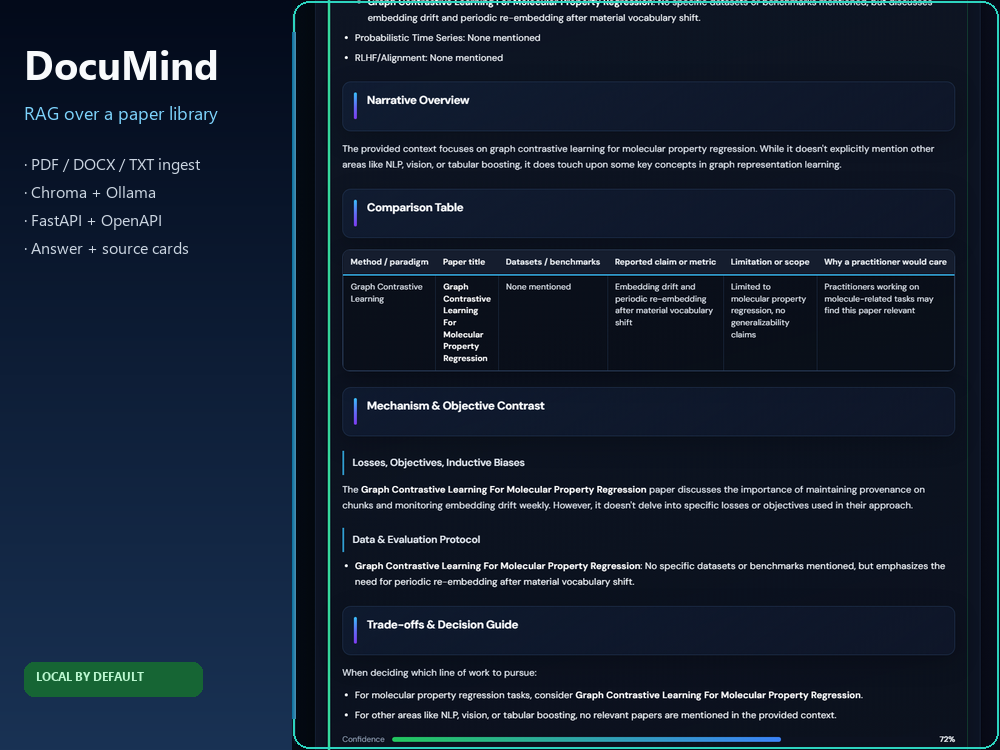
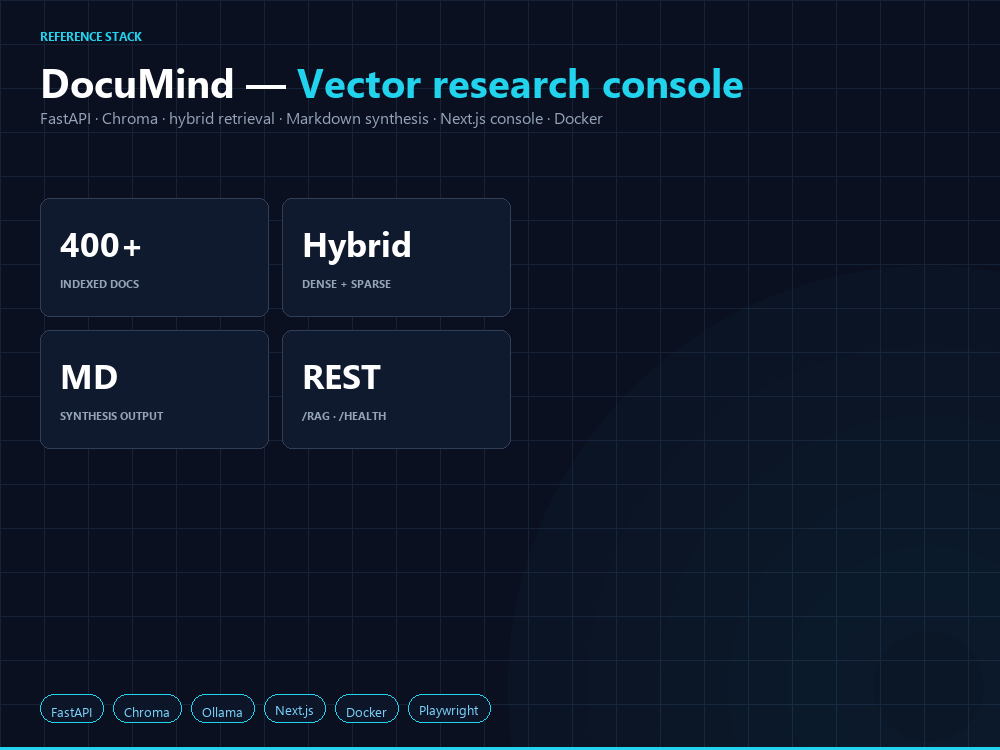
Update README and scripts for enhanced dashboard screenshot generation. Modify Playwright script to support customizable viewport widths and improve catalog thumbnail generation. Revise portfolio HTML for clarity and update image references to reflect new dimensions. Adjust thumbnail design to align

diff --git a/portfolio/DocuMind_Upwork_Catalog.html b/portfolio/DocuMind_Upwork_Catalog.html
@@ -178,10 +178,10 @@
     </div>
 
     <figure class="figure-dashboard">
-      <a href="screenshots/documind-dashboard.png" title="Open full-resolution capture (1440×3200)">
-        <img src="screenshots/documind-upwork-catalog-1000x750.png" width="1000" height="750" alt="DocuMind dashboard after a live query — optimized 4:3 for Upwork Project Catalog thumbnails" loading="lazy" decoding="async" />
+      <a href="screenshots/documind-dashboard.png" title="Open full dashboard capture (Playwright; default 1680×3200)">
+        <img src="screenshots/documind-upwork-catalog-1000x750.png" width="1000" height="750" alt="DocuMind — portfolio tile: poster left, live dashboard right (1000×750)" loading="lazy" decoding="async" />
       </a>
-      <figcaption><strong>Figure 1.</strong> <strong>1000×750</strong> (4:3): left column lists the stack; right column is a cropped live query from the Next UI. Full frame: <code>screenshots/documind-dashboard.png</code>. Regenerate: <code>scripts/capture_dashboard_playwright.py</code> or <code>python scripts/catalog_thumb_art.py --src … --out …</code>.</figcaption>
+      <figcaption><strong>Figure 1.</strong> <strong>1000×750</strong> — narrow left spine (stack) + ~82% width <strong>zoomed</strong> UI band (short vertical crop from the capture so body text stays readable). Re-upload after regenerating. Full: <code>screenshots/documind-dashboard.png</code> (prefer 1680px-wide capture).</figcaption>
     </figure>
 
     <h2>One-line pitch</h2>

diff --git a/scripts/catalog_thumb_art.py b/scripts/catalog_thumb_art.py
@@ -1,7 +1,7 @@
 """
-1000×750 (4:3) catalog image: short stack summary + cropped live UI from dashboard PNG.
+1000×750 Upwork tile — Sentinel-style infographic (no scaled screenshots).
 
-Upwork suggests ~1000×750 for Project Catalog tiles; this keeps text factual and the UI legible.
+Dark navy grid, cyan corner glow, bold title + stack line, 2×2 metric cards, bottom tech pills.
 """
 from __future__ import annotations
 
@@ -11,118 +11,148 @@ from pathlib import Path
 from PIL import Image, ImageDraw, ImageFont
 
 
+W, H = 1000, 750
+BG = (10, 16, 32)
+GRID = (22, 34, 56)
+ACCENT = (34, 211, 238)
+ACCENT_SOFT = (125, 211, 252)
+CARD_BG = (16, 26, 46)
+CARD_EDGE = (48, 62, 88)
+LABEL_GRAY = (148, 163, 184)
+WHITE = (255, 255, 255)
+
+
 def _windows_font(name: str) -> Path | None:
     windir = os.environ.get("WINDIR", "C:/Windows")
     p = Path(windir) / "Fonts" / name
     return p if p.is_file() else None
 
 
-def _load_fonts() -> tuple[ImageFont.FreeTypeFont | ImageFont.ImageFont, ...]:
-    title_p = _windows_font("segoeuib.ttf") or _windows_font("arialbd.ttf")
-    body_p = _windows_font("segoeui.ttf") or _windows_font("arial.ttf")
+def _sentinel_fonts() -> dict[str, ImageFont.FreeTypeFont | ImageFont.ImageFont]:
+    bold = _windows_font("segoeuib.ttf") or _windows_font("arialbd.ttf")
+    reg = _windows_font("segoeui.ttf") or _windows_font("arial.ttf")
     try:
-        if title_p and body_p:
-            return (
-                ImageFont.truetype(str(title_p), 40),
-                ImageFont.truetype(str(body_p), 18),
-                ImageFont.truetype(str(body_p), 16),
-                ImageFont.truetype(str(title_p), 12),
-            )
+        if bold and reg:
+            return {
+                "kicker": ImageFont.truetype(str(bold), 12),
+                "title": ImageFont.truetype(str(bold), 40),
+                "stack_line": ImageFont.truetype(str(reg), 16),
+                "metric_val": ImageFont.truetype(str(bold), 34),
+                "metric_lbl": ImageFont.truetype(str(bold), 11),
+                "pill": ImageFont.truetype(str(reg), 13),
+            }
     except OSError:
         pass
     d = ImageFont.load_default()
-    return (d, d, d, d)
+    return {k: d for k in ("kicker", "title", "stack_line", "metric_val", "metric_lbl", "pill")}
 
 
-def _rounded_mask(size: tuple[int, int], radius: int) -> Image.Image:
-    w, h = size
-    mask = Image.new("L", (w, h), 0)
-    dr = ImageDraw.Draw(mask)
-    dr.rounded_rectangle((0, 0, w, h), radius=radius, fill=255)
-    return mask
+def _draw_subtle_grid(draw: ImageDraw.ImageDraw, width: int, height: int, step: int = 44) -> None:
+    for x in range(0, width + 1, step):
+        draw.line((x, 0, x, height), fill=GRID, width=1)
+    for y in range(0, height + 1, step):
+        draw.line((0, y, width, y), fill=GRID, width=1)
 
 
-def render_catalog_thumbnail(master_png: Path, out_png: Path) -> None:
-    """Composite 1000×750 catalog/portfolio thumbnail from master dashboard PNG."""
-    Image.MAX_IMAGE_PIXELS = 200_000_000
+def _composite_corner_glow(base_rgba: Image.Image) -> Image.Image:
+    w, h = base_rgba.size
+    glow = Image.new("RGBA", (w, h), (0, 0, 0, 0))
+    gd = ImageDraw.Draw(glow)
+    cx, cy = w - 72, h - 64
+    for r, a in (
+        (420, 5),
+        (340, 7),
+        (270, 9),
+        (200, 11),
+        (140, 13),
+        (90, 12),
+        (55, 9),
+    ):
+        gd.ellipse((cx - r, cy - r, cx + r, cy + r), fill=(*ACCENT, a))
+    return Image.alpha_composite(base_rgba, glow)
 
-    master = Image.open(master_png).convert("RGB")
-    mw, mh = master.size
-    if mw < 400 or mh < 400:
-        raise ValueError(f"Master too small: {mw}×{mh}")
 
-    W, H = 1000, 750
-    LEFT_W = 292
-    RIGHT_W = W - LEFT_W
-    radius = 16
-    pad = (6, 10, 22)
+def _draw_metric_card(
+    draw: ImageDraw.ImageDraw,
+    x: int,
+    y: int,
+    cw: int,
+    ch: int,
+    value: str,
+    label: str,
+    fonts: dict[str, ImageFont.ImageFont],
+) -> None:
+    draw.rounded_rectangle((x, y, x + cw, y + ch), radius=10, fill=CARD_BG, outline=CARD_EDGE, width=1)
+    draw.text((x + 20, y + 22), value, fill=WHITE, font=fonts["metric_val"])
+    draw.text((x + 20, y + 78), label.upper(), fill=LABEL_GRAY, font=fonts["metric_lbl"])
 
-    canvas = Image.new("RGB", (W, H), pad)
-    draw = ImageDraw.Draw(canvas)
 
-    # Left gradient panel
-    left = Image.new("RGB", (LEFT_W, H))
-    ld = ImageDraw.Draw(left)
-    for y in range(H):
-        t = y / max(H - 1, 1)
-        r = int(3 + t * 22)
-        g = int(10 + t * 40)
-        b = int(26 + t * 58)
-        ld.line([(0, y), (LEFT_W, y)], fill=(r, g, b))
+def _draw_pill_row(
+    draw: ImageDraw.ImageDraw,
+    tags: list[str],
+    font: ImageFont.ImageFont,
+    x0: int,
+    y0: int,
+    gap: int = 10,
+) -> None:
+    x = x0
+    for tag in tags:
+        bbox = draw.textbbox((0, 0), tag, font=font)
+        tw, th = bbox[2] - bbox[0], bbox[3] - bbox[1]
+        pw, ph = tw + 22, max(28, th + 14)
+        draw.rounded_rectangle((x, y0, x + pw, y0 + ph), radius=14, fill=(12, 22, 40), outline=ACCENT, width=1)
+        draw.text((x + 11, y0 + (ph - th) // 2 - 1), tag, fill=ACCENT_SOFT, font=font)
+        x += pw + gap
 
-    ft_title, ft_sub, ft_li, ft_badge = _load_fonts()
-    ld.text((24, 36), "DocuMind", fill=(248, 250, 252), font=ft_title)
-    ld.text((24, 100), "RAG over a paper library", fill=(125, 211, 252), font=ft_sub)
 
-    bullets = [
-        "PDF / DOCX / TXT ingest",
-        "Chroma + Ollama",
-        "FastAPI + OpenAPI",
-        "Answer + source cards",
-    ]
-    yb = 152
-    for i, b in enumerate(bullets):
-        ld.text((24, yb + i * 28), "· " + b, fill=(203, 213, 225), font=ft_li)
+def render_documind_sentinel_tile(out_png: Path) -> None:
+    """Typography-led catalog tile matching SentinelAI reference (readable at grid size)."""
+    fonts = _sentinel_fonts()
+    base = Image.new("RGBA", (W, H), (*BG, 255))
+    draw = ImageDraw.Draw(base)
+    _draw_subtle_grid(draw, W, H)
+    base = _composite_corner_glow(base)
+    draw = ImageDraw.Draw(base)
 
-    pill = (24, H - 88, 24 + 178, H - 54)
-    ld.rounded_rectangle(pill, radius=10, fill=(22, 101, 52))
-    ld.text((36, H - 82), "LOCAL BY DEFAULT", fill=(187, 247, 208), font=ft_badge)
+    margin_l = 40
+    y = 28
+    draw.text((margin_l, y), "REFERENCE STACK", fill=ACCENT, font=fonts["kicker"])
+    y += 26
 
-    canvas.paste(left, (0, 0))
+    t1 = "DocuMind — "
+    t2 = "Vector research console"
+    draw.text((margin_l, y), t1, fill=WHITE, font=fonts["title"])
+    b1 = draw.textbbox((margin_l, y), t1, font=fonts["title"])
+    draw.text((b1[2], y), t2, fill=ACCENT, font=fonts["title"])
 
-    # Right: "cover" zoom on main column — drop narrow sidebar, cap vertical slab so synthesis/UI scale up.
-    x0 = min(int(mw * 0.19), 340)
-    slab_h = min(mh, 2200)
-    slab = master.crop((x0, 0, mw, slab_h))
-    sw_, sh_ = slab.size
-    scale = max(RIGHT_W / sw_, H / sh_)
-    nw, nh = max(1, int(sw_ * scale)), max(1, int(sh_ * scale))
-    big = slab.resize((nw, nh), Image.Resampling.LANCZOS)
-    left_px = max(0, (nw - RIGHT_W) // 2)
-    top_px = max(0, (nh - H) // 2)
-    panel_rgb = big.crop((left_px, top_px, left_px + RIGHT_W, top_px + H))
+    stack = "FastAPI · Chroma · hybrid retrieval · Markdown synthesis · Next.js console · Docker"
+    y += 52
+    draw.text((margin_l, y), stack, fill=LABEL_GRAY, font=fonts["stack_line"])
 
-    bd = ImageDraw.Draw(panel_rgb)
-    bd.rounded_rectangle((1, 1, RIGHT_W - 2, H - 2), radius=radius, outline=(45, 212, 191), width=2)
+    # 2×2 cards (left block)
+    y_cards = 198
+    cw, ch = 228, 118
+    gap = 14
+    _draw_metric_card(draw, margin_l, y_cards, cw, ch, "400+", "indexed docs", fonts)
+    _draw_metric_card(draw, margin_l + cw + gap, y_cards, cw, ch, "Hybrid", "dense + sparse", fonts)
+    _draw_metric_card(draw, margin_l, y_cards + ch + gap, cw, ch, "MD", "synthesis output", fonts)
+    _draw_metric_card(draw, margin_l + cw + gap, y_cards + ch + gap, cw, ch, "REST", "/rag · /health", fonts)
 
-    mask = _rounded_mask((RIGHT_W, H), radius)
-    panel_rgba = panel_rgb.convert("RGBA")
-    panel_rgba.putalpha(mask)
+    pills = ["FastAPI", "Chroma", "Ollama", "Next.js", "Docker", "Playwright"]
+    _draw_pill_row(draw, pills, fonts["pill"], margin_l, H - 56, gap=10)
 
-    canvas_rgba = canvas.convert("RGBA")
-    canvas_rgba.paste(panel_rgba, (LEFT_W, 0), panel_rgba)
-    out = canvas_rgba.convert("RGB")
-
-    fd = ImageDraw.Draw(out)
-    for i in range(4):
-        fd.line([(LEFT_W + i, 32), (LEFT_W + i, H - 32)], fill=(14 + i * 18, 116 + i * 8, 160 + i * 6), width=1)
+    draw.rectangle((0, H - 3, W, H), fill=ACCENT)
 
     out_png.parent.mkdir(parents=True, exist_ok=True)
-    out.save(out_png, "PNG", optimize=True)
+    base.convert("RGB").save(out_png, "PNG", optimize=True)
+
+
+def render_catalog_thumbnail(_master: Path, out_png: Path) -> None:
+    """Composite Upwork tile (Sentinel-style infographic; master path unused)."""
+    render_documind_sentinel_tile(out_png)
 
 
 def write_plain_top_crop_thumbnail(src: Path, dst: Path, width: int = 1000, height: int = 750) -> None:
-    """Simple 4:3 top-crop (legacy plain resize)."""
     Image.MAX_IMAGE_PIXELS = 200_000_000
     im = Image.open(src).convert("RGB")
     sw, sh = im.size
@@ -144,13 +174,15 @@ def write_plain_top_crop_thumbnail(src: Path, dst: Path, width: int = 1000, heig
 if __name__ == "__main__":
     import argparse
 
-    ap = argparse.ArgumentParser(description="Build 1000×750 catalog thumbnail from dashboard PNG")
-    ap.add_argument("--src", type=Path, required=True)
+    ap = argparse.ArgumentParser(description="Build 1000×750 catalog thumbnail (Sentinel-style or plain crop)")
     ap.add_argument("--out", type=Path, required=True)
-    ap.add_argument("--plain", action="store_true", help="Plain top-crop only (no branded rail)")
+    ap.add_argument("--plain", action="store_true", help="Top-crop from dashboard PNG instead")
+    ap.add_argument("--src", type=Path, help="Dashboard PNG (required with --plain)")
     ns = ap.parse_args()
     if ns.plain:
+        if not ns.src:
+            ap.error("--plain requires --src")
         write_plain_top_crop_thumbnail(ns.src, ns.out)
     else:
-        render_catalog_thumbnail(ns.src, ns.out)
+        render_documind_sentinel_tile(ns.out)
     print(f"Wrote {ns.out}")

diff --git a/scripts/capture_dashboard_playwright.py b/scripts/capture_dashboard_playwright.py
@@ -7,6 +7,9 @@ Viewport capture uses a fixed height cap (default 3200px) and scrolls the synthe
 Never trust documentElement.scrollHeight for screenshots — long Markdown answers can exceed 90kpx and
 produce an unusable vertical strip when scaled down.
 
+The default 1000×750 catalog thumb is a Sentinel-style typography tile (no scaled UI); use
+--plain-catalog-thumb for a simple top-crop from the dashboard PNG.
+
 First boot after SAMPLE_CORPUS_VERSION bump can take a long time (many embeds). Use --min-docs lower for a smaller
 corpus, or raise --wait-index-ms for a full v7 seed.
 """
@@ -28,7 +31,12 @@ DEFAULT_OUT = ROOT / "portfolio" / "screenshots" / "documind-dashboard.png"
 DEFAULT_THUMB_OUT = ROOT / "portfolio" / "screenshots" / "documind-upwork-catalog-1000x750.png"
 
 
-def write_catalog_thumbnail(src: Path, dst: Path, *, plain: bool) -> None:
+def write_catalog_thumbnail(
+    src: Path,
+    dst: Path,
+    *,
+    plain: bool,
+) -> None:
     if plain:
         write_plain_top_crop_thumbnail(src, dst)
     else:
@@ -75,6 +83,12 @@ def main() -> int:
         help="Capture the entire scrollable page (can be 50k+ px tall with long answers — poor for portfolios).",
     )
     parser.add_argument(
+        "--viewport-width",
+        type=int,
+        default=1680,
+        help="Browser viewport width for capture (default 1680 — sharper portfolio thumbs than 1440).",
+    )
+    parser.add_argument(
         "--viewport-height",
         type=int,
         default=3200,
@@ -99,7 +113,7 @@ def main() -> int:
     parser.add_argument(
         "--plain-catalog-thumb",
         action="store_true",
-        help="Simple 4:3 top-crop instead of the branded attention layout (A/B or strict minimalism).",
+        help="Simple 4:3 top-crop from the dashboard PNG instead of the default Sentinel-style tile.",
     )
     args = parser.parse_args()
 
@@ -128,7 +142,11 @@ def main() -> int:
             print("--thumb-only conflicts with --no-thumb", file=sys.stderr)
             return 1
         try:
-            write_catalog_thumbnail(args.out, args.thumb_out, plain=args.plain_catalog_thumb)
+            write_catalog_thumbnail(
+                args.out,
+                args.thumb_out,
+                plain=args.plain_catalog_thumb,
+            )
         except (OSError, ValueError, RuntimeError) as exc:
             print(str(exc), file=sys.stderr)
             return 1
@@ -147,8 +165,9 @@ def main() -> int:
     """
 
     with sync_playwright() as p:
+        vw = max(1024, min(int(args.viewport_width), 1920))
         browser = p.chromium.launch(headless=True)
-        page = browser.new_page(viewport={"width": 1440, "height": 900})
+        page = browser.new_page(viewport={"width": vw, "height": 900})
         page.goto(args.url, wait_until="domcontentloaded", timeout=120_000)
         page.wait_for_function(js, timeout=args.wait_index_ms)
         page.get_by_role("button", name="Refresh status").click()
@@ -187,7 +206,7 @@ def main() -> int:
             page.screenshot(path=str(args.out), full_page=True)
         else:
             vh = max(900, min(int(args.viewport_height), 4096))
-            page.set_viewport_size({"width": 1440, "height": vh})
+            page.set_viewport_size({"width": vw, "height": vh})
             page.wait_for_timeout(350)
             page.screenshot(path=str(args.out), full_page=False)
 
@@ -203,8 +222,12 @@ def main() -> int:
             )
         else:
             try:
-                write_catalog_thumbnail(args.out, args.thumb_out, plain=args.plain_catalog_thumb)
-                kind = "plain 4:3" if args.plain_catalog_thumb else "branded attention 4:3"
+                write_catalog_thumbnail(
+                    args.out,
+                    args.thumb_out,
+                    plain=args.plain_catalog_thumb,
+                )
+                kind = "plain 4:3" if args.plain_catalog_thumb else "Sentinel-style 4:3"
                 print(f"Wrote {args.thumb_out} (Upwork catalog — {kind})")
             except (OSError, ValueError, RuntimeError) as exc:
                 print(str(exc), file=sys.stderr)

diff --git a/README.md b/README.md
@@ -317,7 +317,7 @@ Under **`portfolio/`**: client project catalog HTML, portfolio brief HTML, optio
 # Custom API / wait cap:                .\scripts\capture_dashboard.ps1 -ApiBase "http://127.0.0.1:8001" -MaxLivenessWaitMinutes 240
 ```
 
-Or directly: `.\.venv\Scripts\python scripts\capture_dashboard_playwright.py --help` — waits for **≥120 chars** in `.prose-answer`, scrolls synthesis into view, writes **1440×3200** `portfolio/screenshots/documind-dashboard.png`, then **1000×750** `portfolio/screenshots/documind-upwork-catalog-1000x750.png` (stack summary + cropped UI; `--plain-catalog-thumb` is a plain top-crop). Thumb only: `.\.venv\Scripts\python scripts\capture_dashboard_playwright.py --thumb-only`. Standalone: `python scripts/catalog_thumb_art.py --src portfolio/screenshots/documind-dashboard.png --out portfolio/screenshots/documind-upwork-catalog-1000x750.png`. Avoid `--full-page` for portfolio assets.
+Or directly: `.\.venv\Scripts\python scripts\capture_dashboard_playwright.py --help` — waits for **≥120 chars** in `.prose-answer`, scrolls synthesis into view, writes **1680×3200** `portfolio/screenshots/documind-dashboard.png` (default `--viewport-width 1680`; use `--viewport-width 1440` if needed), then **1000×750** `portfolio/screenshots/documind-upwork-catalog-1000x750.png` (default Sentinel-style typography tile; `--plain-catalog-thumb` top-crops the dashboard). Thumb only: `.\.venv\Scripts\python scripts\capture_dashboard_playwright.py --thumb-only`. Standalone tile: `python scripts/catalog_thumb_art.py --out portfolio/screenshots/documind-upwork-catalog-1000x750.png`. Avoid `--full-page` for portfolio assets.
 
 ---
 
